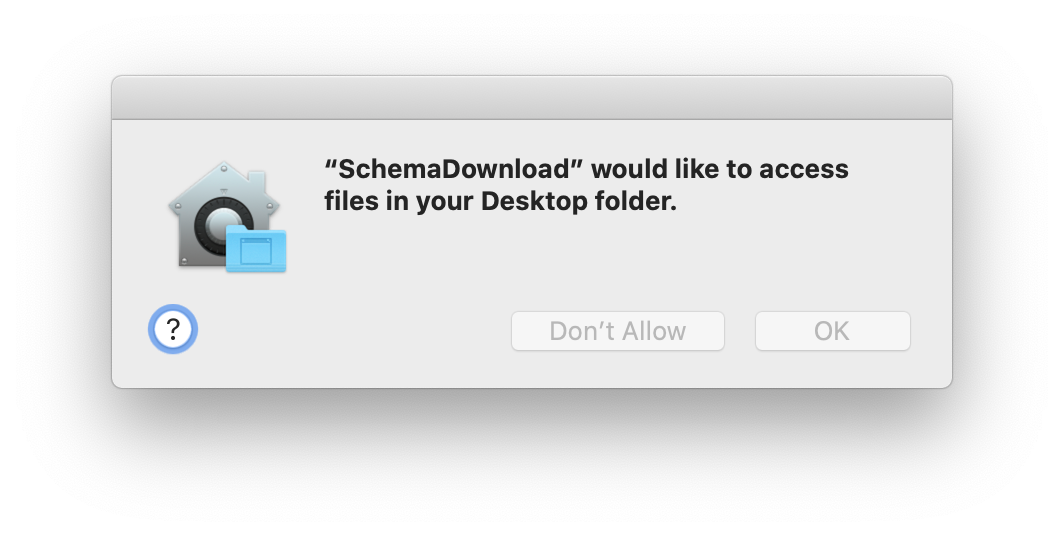
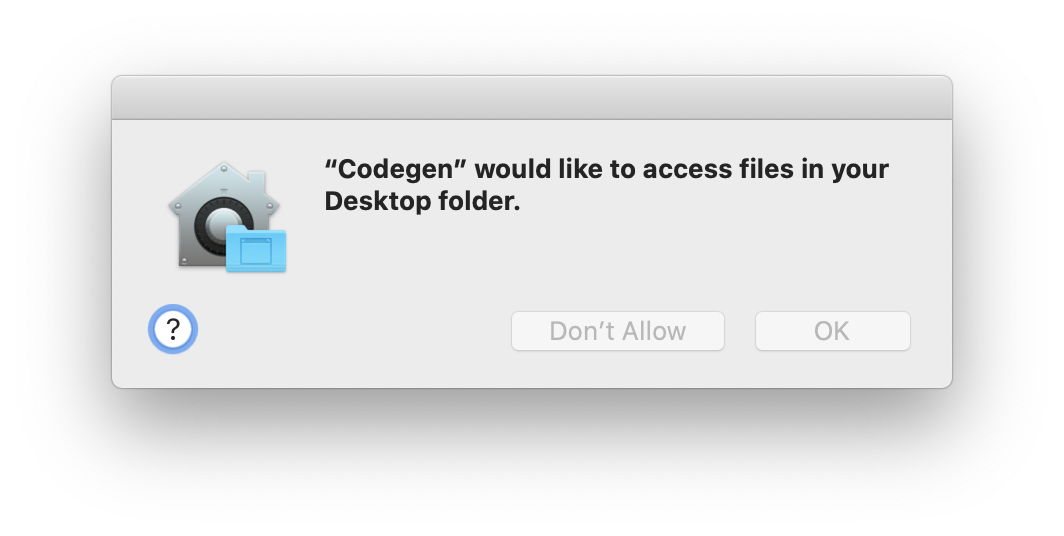
flesh out the last of the instructions

Changed region(s): [[0.3102, 0.2985, 0.8374, 0.4179]]

diff --git a/docs/source/swift-scripting.md b/docs/source/swift-scripting.md
@@ -121,8 +121,20 @@ One of the convenience wrappers available to you in the target is `ApolloSchemaD
     ```
     
     With these defaults, this will download a JSON file called `schema.json`. 
+    
+4. Add the code that will actually download the schema: 
 
-4. Build and run using the Xcode project. Note that if you're on Catalina you may get a warning asking if your executable can access files in a particular folder like this:
+    ```swift:title=main.swift
+    do {
+      try ApolloSchemaDownloader.run(with: cliFolderURL,
+                                     options: options)
+    } catch {
+      exit(1)
+    }
+    ```
+    Note that `catch`'ing and manually calling `exit` with a non-zero code leaves you with a much more legible error message than simply letting the method throw. 
+
+5. Build and run using the Xcode project. Note that if you're on Catalina you may get a warning asking if your executable can access files in a particular folder like this:
 
    ![permission prompt](screenshot/would_like_to_access.png)
    
@@ -178,26 +190,31 @@ You can then create a new empty file in your Xcode project, give it the same nam
 
 >**BEFORE YOU START**: Remember, you need to have a locally downloaded copy of your schema and at least one `.graphql` file containing an operation in your file tree. If you don't have **both** of these, code generation will fail. Read the section above if you don't have an operation set up!
 
-1. Select your target folder.
+1. Set up the URL for the folder where the root of your target that you wish to generate code for is:
 
     ```swift:title=main.swift
     let targetURL = sourceRootURL
                     .appendingPathComponent("Sources")
                     .appendingPathComponent("MyTarget")
-    
-    // Make sure the folder actually exists            
+    ```
+
+    Again, you may want to make sure the folder exists before proceeding:
+
+    ```swift:title=main.swift 
     try FileManager
           .default
           .apollo_createFolderIfNeeded(at: targetURL)
     ```
 
-2. Set up your options object. In this case, we'll use the constructor that [sets a bunch of defaults for you automatically](./api/ApolloCodegenLib/structs/ApolloCodegenOptions#methods): 
+2. Set up your `ApolloCodegenOptions` object. In this case, we'll use the constructor that [sets a bunch of defaults for you automatically](./api/ApolloCodegenLib/structs/ApolloCodegenOptions#methods): 
 
     ```swift:title=main.swift
     let options = ApolloCodegenOptions(targetRootURL: targetRootURL)
     ```
 
-3. Now actually run the code generation:
+    This will create a single file called `API.swift` in the target's root folder. 
+    
+3. Add the code to run code generation: 
     
     ```swift:title=main.swift
     do {
@@ -205,27 +222,41 @@ You can then create a new empty file in your Xcode project, give it the same nam
                               with: cliFolderURL,
                               options: options)
     } catch {
-        // This gives a much cleaner error message than
-        // just letting the method throw. 
         exit(1)
     }
     ```
+   
+   Note that again, `catch`'ing and manually calling `exit` with a non-zero code leaves you with a much more legible error message than simply letting the method throw.  
+
+4. Build and run using the Xcode project. Note that if you're on Catalina you may get a warning asking if your executable can access files in a particular folder like this:
+
+   ![permission prompt](screenshot/would_like_to_access.png)
+   
+   Click the "OK" button. Your CLI output will look something like this: 
+   
+   ![log barf for successful run](screenshot/codegen_success.png)
+   
+   The final lines about loading the Apollo project and generating query files are what indicate your code has been generated successfully. 
+   
+Now, you're able to generate code from a debuggable Swift Package Manager executable. All that's left to do is set it up to run from your Xcode project!
 
 ## Running Your Executable From Your Main Project
 
-1. Select the target in your project or workspace  you want to have run the code generation, and go to the `Build Phases` tab. 
+1. Select the target in your project or workspace you want to have run the code generation, and go to the `Build Phases` tab. 
 
 2. Create a new Run Script Build Phase by selecting the **+** button in the upper left-hand corner:
 
   ![New run script build phase dialog](screenshot/new_run_script_phase.png)
 
-3. Update the 
+3. Update the build phase run script to `cd` into the folder where your executable's code lives, then run `swift run`. 
 
     ```
     cd "${SRCROOT}"/Codegen
     swift run
     ```
     
-4. Build your target. Since `swift run` is being called from within your target, all of the pieces of the environment, including `$SRCROOT`, will automatically be passed to the 
+    >**NOTE**: If your package ever seems to have problems with caching, run `swift package clean` before `swift run` for a totally clean build. It is not recommended to do this by default since it substantially increases build time.
+    
+4. Build your target. Since `swift run` is being called from within your target, all of the pieces of the environment, including `$SRCROOT`, will automatically be passed to the environment of the executable, and you don't have to worry about passing anything manually. 
 
->**NOTE**: If your package ever seems to have problems with caching, run `swift package clean` before `swift run` for a totally clean build. It is not recommended to do this by default since it substantially increases build time.
+Now, every time you build your project, this script will get called. Since Swift knows not to recompile everything unless something's changed, it should not have a significant impact on your build time. 
